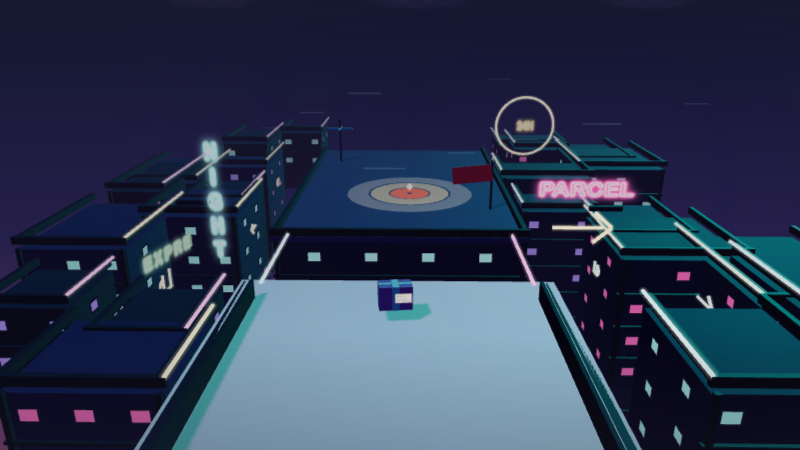
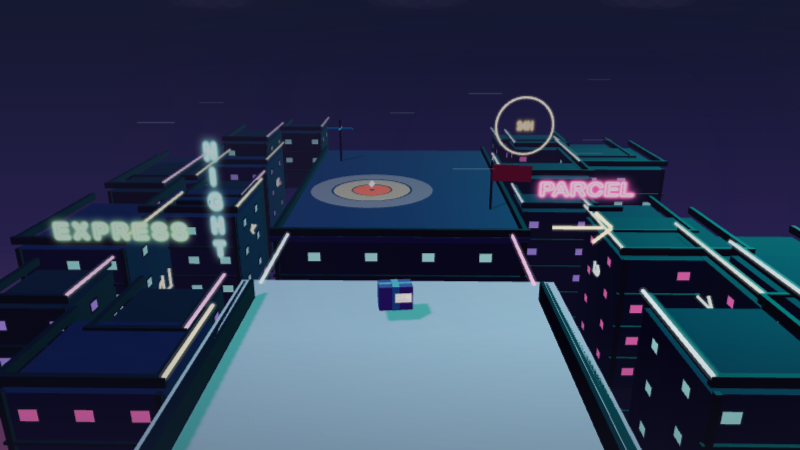
Align EXPRESS with the NIGHT facade

Changed region(s): [[0.375, 0.3422, 0.6875, 0.4978], [0.0625, 0.4667, 0.25, 0.6222]]

diff --git a/crazygames/world.js b/crazygames/world.js
@@ -409,15 +409,16 @@ export function createWorld(container) {
     get sceneName() { return sceneName },
     get districtMetrics() {
       const spec = DISTRICTS[sceneName]
-      const neonCounts = { textSigns: 0, foregroundTextSigns: 0, rearTextSigns: 0, expressWallMounted: false, expressSpaced: false, expressScreen: null, symbols: 0, foregroundSymbols: 0, backgroundSymbols: 0, crosses: 0, boards: 0, eaves: 0, streetTubes: 0, roundTubes: 0, maxTubeRadius: 0 }
+      const neonCounts = { textSigns: 0, foregroundTextSigns: 0, rearTextSigns: 0, expressWallMounted: false, expressSpaced: false, expressSameNightPlane: false, expressScreen: null, symbols: 0, foregroundSymbols: 0, backgroundSymbols: 0, crosses: 0, boards: 0, eaves: 0, streetTubes: 0, roundTubes: 0, maxTubeRadius: 0 }
       if (sceneName === 'neon') scenes.neon.traverse((child) => {
         if (child.userData.neonText) {
           neonCounts.textSigns += 1
           if (child.userData.neonTextZone === 'foreground') neonCounts.foregroundTextSigns += 1
           if (child.userData.neonTextZone === 'rear') neonCounts.rearTextSigns += 1
           if (child.userData.neonText === 'EXPRESS') {
-            neonCounts.expressWallMounted = child.userData.neonTextSurface === 'street-wall' && child.position.y < -1
+            neonCounts.expressWallMounted = child.userData.neonTextSurface === 'street-wall'
             neonCounts.expressSpaced = child.userData.neonLetterSpaced === true
+            neonCounts.expressSameNightPlane = Math.abs(child.position.z + 1) < 0.05 && Math.abs(child.rotation.y) < 0.01
             const projected = child.getWorldPosition(new THREE.Vector3()).project(camera)
             neonCounts.expressScreen = { x: Math.round((projected.x + 1) * 800) / 2, y: Math.round((1 - projected.y) * 450) / 2 }
           }
@@ -826,7 +827,7 @@ function addDistrictEnvironment(group, kind) {
     addNeonRing(group, 0xffb84d, [6.05, 2.75, -13.7], 1.42)
     addNeonText(group, { text: '24H', width: 2.15, height: 1.18, color: 0xffb84d, position: [6.05, 2.75, -13.55], zone: 'rear' })
 
-    addNeonText(group, { text: 'EXPRESS', width: 5.0, height: 1.5, color: 0x5cff8d, position: [-9.15, -1.05, -6.3], rotationY: 1.3, spaced: true, surface: 'street-wall' })
+    addNeonText(group, { text: 'EXPRESS', width: 5.0, height: 1.5, color: 0x5cff8d, position: [-8.75, 1.55, -0.98], spaced: true, surface: 'street-wall' })
   }
 
   const street = new THREE.Mesh(

diff --git a/doc/crazygames-review.md b/doc/crazygames-review.md
@@ -1,9 +1,9 @@
-# Rooftop Delivery — Crazy Games 第九轮 EXPRESS 审图修正
+# Rooftop Delivery — Crazy Games 第十轮 EXPRESS 位置修正
 
 ## 本轮范围
 
 - 分支：`cursor/crazygames-guest-7e22`
-- 起点：`70aec07`
+- 起点：`6c11d6a`
 - 只修改 Crazy Games 隔离代码、QA 与文档；没有修改宿主运行代码，没有重写抛掷结算。
 - 10 条固定路线、七步教学、八项升级与夜间合约全部保留；没有新增路线、广告、内购或账号。
 
@@ -34,8 +34,8 @@
 
 - 所有暗色底板、方牌、矩形亮框和逐楼复制的文字广告牌已删除；文字纹理使用透明底与三层彩色 `strokeText`，字母本身就是灯管。
 - 所有实体灯管从 0.18–0.22 厚的 BoxGeometry 方条换成半径 `0.06` 的 CylinderGeometry；圆形与杯把使用同截面 TorusGeometry。檐口与两根跨街灯也使用细圆管，不再形成发白的矩形框。
-- 文字只保留四组：近处左楼竖排青色 `NIGHT`，绿色 `EXPRESS` 独立安装在左侧 index 18 建筑的朝街墙面楼层区，右楼粉色 `PARCEL` 接琥珀色朝街箭头，后方楼为琥珀色圆环中的 `24H`。`EXPRESS` 不再位于屋顶棱线，与 `NIGHT` 的投影分开。
-- `EXPRESS` 使用 1024px 透明画布，七个字母逐字应用同一套三层灯管描边并等距排布；最终 800×450 投影中心约为 `(178,249)`，完整落在左楼可见墙面范围。
+- 文字只保留四组：近处左楼竖排青色 `NIGHT`，绿色 `EXPRESS` 与它共用相机正视的 `z≈-1` 墙面平面并横排在左下侧；右楼粉色 `PARCEL` 接琥珀色朝街箭头，后方楼为琥珀色圆环中的 `24H`。`EXPRESS` 不再沿斜侧墙伸进楼角。
+- `EXPRESS` 使用 1024px 透明画布，七个字母逐字应用同一套三层灯管描边并等距排布；最终 800×450 投影中心约为 `(121,233)`，整个单词约落在 `x=42–199`，两个 `S` 均完整显示，并与 `NIGHT` 保持间距。
 - 近景左右侧楼分别只突出一个杯子和一个箭头，比例为 0.76；其余 16 个符号缩为 0.42，十字仅保留 2 个，避免抢过四组文字。
 - 22 栋朝街檐口各保留一根覆盖完整墙宽的通长细圆管；街谷左右各一根 4.45 长的细圆管直接连接玩家屋顶与落点屋顶。
 - 收件屋顶未增加招牌或灯管，仍只保留垫圈、旗子和一件小型天线。
@@ -60,7 +60,7 @@
 - 六景共享已恢复的连续街道骨架；六个建筑族与建筑主色均唯一，差异来自可见结构而非移动楼距或只换色。
 - 六张无 HUD 截图中，主题物件分布在左右/后方楼体，收件屋顶没有大型主题陈列；垫圈与旗帜保持清楚。
 - neon 专项 Chromium 截图为 800×450，无溢出、裁切、页面异常或控制台错误；固定 `gap=4 / streetWidth=8 / skylineCount=22` 未变。
-- 真实场景树计数：`textSigns=4`、`foregroundTextSigns=3`、`rearTextSigns=1`、`expressWallMounted=true`、`expressSpaced=true`、`symbols=20`、`foregroundSymbols=2`、`backgroundSymbols=16`、`crosses=2`、`boards=0`、`eaves=22`、`streetTubes=2`、`roundTubes=73`、`maxTubeRadius=0.06`。
+- 真实场景树计数：`textSigns=4`、`foregroundTextSigns=3`、`rearTextSigns=1`、`expressWallMounted=true`、`expressSpaced=true`、`expressSameNightPlane=true`、`symbols=20`、`foregroundSymbols=2`、`backgroundSymbols=16`、`crosses=2`、`boards=0`、`eaves=22`、`streetTubes=2`、`roundTubes=73`、`maxTubeRadius=0.06`。
 - Route 6 / 9 / 10：翻转完成后权威风、HUD 箭头和旗帜方向逐关一致。
 - Route 7 普通垫圈：`misses=1`、`delivered=0`；结果浮字与箱体不重叠，顶面裂纹可见。
 
@@ -82,6 +82,6 @@
 - P1 “31e9daf 把街道拆成空地上的孤立方块”已通过恢复 `fa376ab` 固定空间与隐藏 HUD 的六张复拍关闭。
 - P1 “楼体只是白点方块/同模型换色”已通过楼层、窗框、女儿墙和六类专属建筑结构关闭。
 - P1 “主题装饰都堆在落点屋顶”已通过侧街附着规则与六张无 HUD 复拍关闭。
-- P1 “EXPRESS 趴在屋顶棱线、与 NIGHT 重叠且无法完整读出”已通过左楼墙面重定位、逐字灯管描边、等距排布和同状态专项复拍关闭。
+- P1 “EXPRESS 沿斜侧墙只能看到 EXPRE、末尾 S 被楼角挡住”已通过移至 NIGHT 同一正视墙面、锁定屏幕投影范围和同状态专项复拍关闭。
 - P1 “翻风静帧方向未提交”和“裂箱浮字遮挡”已用最终静帧与浏览器断言关闭。
 - `comprehension unverified`：本轮只改视觉辨识与反馈证据，仍没有全新真人复述玩法三问合同的证据。

diff --git a/doc/requirements.md b/doc/requirements.md
@@ -97,6 +97,6 @@
 - **场景轮换**：`depot`、`laundry`、`garden`、`neon`、`glasshouse`、`beacon` 六种程序化屋顶必须拥有不同楼高/轮廓、可读窗户、水箱或天线，以及对应专属物件。夜间合约只轮换这六种已装扮场景，不创建第七座城市，也不新增固定路线。
 - **街道空间合同**：恢复并锁定 `fa376ab` 的相机和街道骨架：玩家站在近处屋顶，落点屋顶在固定宽度的街对面，左右各 11 栋楼连续组成街墙。六景不得改变前后屋顶距离、把落点楼推远或让建筑悬在空地上；场景身份来自楼层、窗户、女儿墙和不同建筑类型，而非移动街道骨架或只换颜色。800×450 隐藏 HUD 后仍能靠仓库/住宅/庭院/招牌楼/玻璃棚/灯塔辨认场景。
 - **装饰分布合同**：场景专属物件必须铺到左右街楼和后方建筑：depot 的装卸门/货箱、laundry 的临街晾衣、garden 的楼顶/窗台花箱、neon 的楼面文字招牌、glasshouse 的侧楼玻璃棚、beacon 的侧后方灯塔与屋顶灯。落点屋顶只保留垫圈、风旗、玩法动物以及至多一个水箱或天线，不得再作为主题展示台；第 8/10 关两个落点必须同时完整可读。
-- **neon 灯管合同**：文字招牌只保留四组且不使用底板、方牌或矩形亮框：近处左楼的竖排 `NIGHT` 保持屋沿构图，横排 `EXPRESS` 必须独立贴在同侧近景建筑的朝街墙面、位于楼层区而非屋顶棱线，并通过逐字灯管描边和加宽字距在 800×450 完整可读；右楼为 `PARCEL` 并在下方接朝街箭头，后方一栋为圆形灯管包围 `24H`。所有实体灯管使用 CylinderGeometry 或 TorusGeometry 的圆截面，主半径约 `0.06`；檐口和街边不得再使用 0.2 厚方条。近处左右墙面分别只突出一个杯子和一个箭头，其余粉、青、琥珀、绿符号缩小且十字稀疏出现。22 栋楼的朝街檐口各保留一整根通长圆管，街道左右各一根通长圆管跨过玩家屋顶与落点屋顶之间的街谷。所有文字、符号和灯管均禁止回到落点屋顶。
+- **neon 灯管合同**：文字招牌只保留四组且不使用底板、方牌或矩形亮框：近处左楼的竖排 `NIGHT` 保持屋沿构图，横排 `EXPRESS` 必须放在与 `NIGHT` 相同、相机正面可见的墙面平面，位于其左下侧且不进入楼角；七个逐字灯管字母在 800×450 全部露出。右楼为 `PARCEL` 并在下方接朝街箭头，后方一栋为圆形灯管包围 `24H`。所有实体灯管使用 CylinderGeometry 或 TorusGeometry 的圆截面，主半径约 `0.06`；檐口和街边不得再使用 0.2 厚方条。近处左右墙面分别只突出一个杯子和一个箭头，其余粉、青、琥珀、绿符号缩小且十字稀疏出现。22 栋楼的朝街檐口各保留一整根通长圆管，街道左右各一根通长圆管跨过玩家屋顶与落点屋顶之间的街谷。所有文字、符号和灯管均禁止回到落点屋顶。
 - **包裹反馈**：所有皮肤保留纸箱体、横纵十字胶带和可读标签。落在屋顶后先压扁再回弹，同时弹出本次小费；滑出楼沿后持续翻滚坠向街道，不能瞬间隐藏。`prefers-reduced-motion` 下缩短压扁/回弹幅度，但裂纹、结果文字与小费仍清楚可见。
 - **验证实验**：分别回放第 7 关中心/垫边、第 6/9/10 关每件仅一次翻风且视觉先行、第 8/10 关主副落点。通过信号是三类落点分类稳定、翻风不重复、权威弹道仍可规划；停止信号是任一路线无解、目标重叠或提示遮挡操作区。

diff --git a/doc/technical.md b/doc/technical.md
@@ -86,6 +86,7 @@ Three.js 场景由 `makeBuilding()`、`addBackgroundCity()`、`addRoofDetails()`
 - 第七轮只替换 neon 的招牌层：删除 `addNeonBillboard()` 及所有暗底板、矩形边框和逐楼文字牌；`addNeonText()` 只生成透明 CanvasTexture 上的三层灯管描边。四组文字分别是竖排 `NIGHT`、带独立几何箭头的 `PARCEL`、置于 Torus 灯管圆环内的 `24H`，以及用横向支架挂在后楼立面的较小 `EXPRESS`。其余 18 栋楼由 `addNeonSymbol()` 轮换箭头、圆圈、十字和杯子几何，并混用粉、青、琥珀、绿；22 根檐口灯管与两根跨街灯管保持不变。专项 QA 从真实场景树断言 `textSigns=4 / symbols=20 / boards=0 / eaves=22 / streetTubes=2`。
 - 第八轮仍只改 neon 灯管做法：`addGlowTube()` 不再生成 BoxGeometry，改为沿最长轴旋转的 CylinderGeometry，实体半径统一 `0.06`、外层圆管光晕半径 `0.12`；24H 圆环和符号弧线同步使用 `0.06` 截面 TorusGeometry。`EXPRESS` 移至近处左楼并移除专属 compact glow，和 `NIGHT` 共用完整三层描边。index 18/19 的近景侧楼分别保留 0.76 比例的杯子与箭头，其余 16 个符号缩到 0.42，十字只保留 2 个。专项 QA 断言 `foregroundTextSigns=3 / rearTextSigns=1 / foregroundSymbols=2 / backgroundSymbols=16 / crosses=2 / roundTubes=73 / maxTubeRadius=0.06`。
 - 第九轮只修 `EXPRESS`：从屋顶线上方移到左侧 index 18 建筑的朝街墙面楼层区，中心世界坐标为 `[-9.15, -1.05, -6.3]`，并沿墙面旋转 `1.3rad`，避免与竖排 `NIGHT` 的屏幕投影重叠。`makeNeonSignTexture()` 为 spaced 文字使用 1024px 透明画布，将 `E X P R E S S` 七个字母逐个执行同一套三层 `strokeText` 灯管描边；字母等距分布，不再依赖整词字体内部 kerning。专项 QA 同时断言 `expressWallMounted=true / expressSpaced=true` 并记录 800×450 屏幕投影位置。
+- 第十轮只移动 `EXPRESS`：保持既有 5.0×1.5 透明文字面和逐字灯管纹理不变，将中心改为 `[-8.75, 1.55, -0.98]`、取消 Y 轴斜转，使其与 `NIGHT` 共用相机正视的 `z≈-1` 墙面平面。800×450 下中心投影约 `(121,233)`，宽度范围约 `x=42–199`，完整避开画面左边界与 `NIGHT`。专项 QA 新增 `expressSameNightPlane=true` 及中心投影范围断言；相机、建筑、灯管、符号和玩法数据均不变。
 - 风旗几何以旗杆为缩放原点，`scale.x` 的正负直接表示当前可见风向；HUD 箭头同样以 `scaleX(±1)` 表示方向。QA 在 180ms 翻转提交后分别检查路线 6、9、10 的权威风、HUD 箭头和旗帜方向相同。易碎箱改用正面与顶面的厚 Plane 裂纹，结果浮字使用独立 `is-fragile` 位置避免遮挡箱体。
 - `_qa/crazygames-rules.mjs` 检查路线数量/规则标记、夜间六景循环、副落点分类、坠街可见时段和 10 条路线的规划落点；`_qa/crazygames-review.mjs` 在真实 Chromium 中检查 800×450 无裁切、六类建筑身份唯一、六景均保持 `gap=4 / streetWidth=8 / skylineCount=22` 的固定街道骨架、易碎失误、翻风视觉先行/单次限制、双落点与控制台错误，并生成最终截图。
 - `?playtest=1` 仅为本地 QA 暴露 `window.__cg` 状态与展示钩子；普通游客入口不创建该对象。

diff --git a/doc/visual.md b/doc/visual.md
@@ -23,7 +23,7 @@
 - 公共天空与邮政 UI 延续暮紫 `#5B5E8B`、纸白 `#FFF5DE`、珊瑚 `#F05D4E`、风青 `#0F7F78`、提示金 `#F2C14E`。
 - 六场景使用独立强调色：depot 铁锈橙、laundry 天蓝、garden 叶绿、neon 青紫、glasshouse 冷蓝、beacon 金黄深海军。
 - 六景同时切换天空渐变、雾色、半球光、主光、轮廓光、街道与窗光；禁止让公共紫灰背景重新覆盖场景身份。neon 使用深靛天空、青/粉窗光和成组可读的大字灯牌；beacon 保持最深天空，只让窗灯与灯塔成为高亮。
-- neon 不使用暗色底板、方牌或矩形亮框。文字只保留四组管状描边字：近处左楼竖排 `NIGHT`；横排 `EXPRESS` 独立贴在左侧近景楼的朝街立面楼层区，使用逐字灯管描边与明显字距，禁止压住屋顶棱线或与 NIGHT 投影重叠；右楼为 `PARCEL` 加向街箭头，后楼为圆形灯管中的 `24H`。四组在同一张 800×450 中完整可读。实体灯管统一为约 `0.06` 半径的圆管，外层光晕保持柔和但不形成白色方框。近处左右分别只突出一个杯子和一个箭头；其余粉、青、琥珀、绿符号缩小，十字只作少量远景节奏。每栋朝街檐口仍使用一根覆盖完整墙宽的通长细圆管，街谷左右各一根通长细圆管连接两个屋顶；落点屋顶不承载招牌或符号灯。
+- neon 不使用暗色底板、方牌或矩形亮框。文字只保留四组管状描边字：近处左楼竖排 `NIGHT`；横排 `EXPRESS` 与它共用相机正视的 `z≈-1` 墙面平面，置于左下侧，保持逐字灯管描边与明显字距，七个字母不得被楼角裁掉；右楼为 `PARCEL` 加向街箭头，后楼为圆形灯管中的 `24H`。四组在同一张 800×450 中完整可读。实体灯管统一为约 `0.06` 半径的圆管，外层光晕保持柔和但不形成白色方框。近处左右分别只突出一个杯子和一个箭头；其余粉、青、琥珀、绿符号缩小，十字只作少量远景节奏。每栋朝街檐口仍使用一根覆盖完整墙宽的通长细圆管，街谷左右各一根通长细圆管连接两个屋顶；落点屋顶不承载招牌或符号灯。
 - bullseye 用珊瑚色；副投递圈用纸白/风青并带不同中心标记，不能只靠颜色区分。
 
 ## 4. Typography
